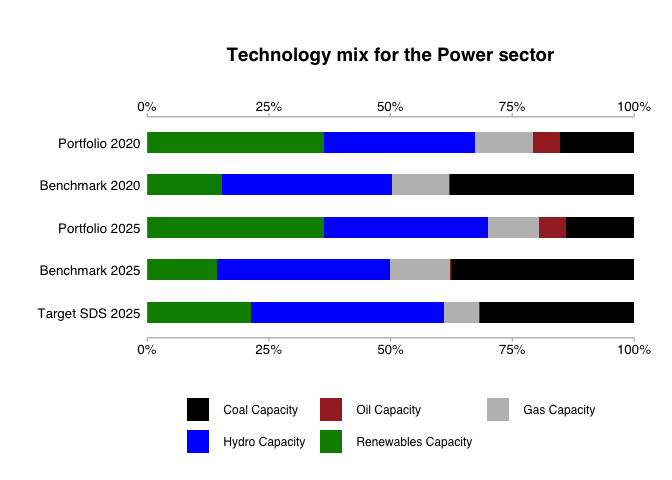
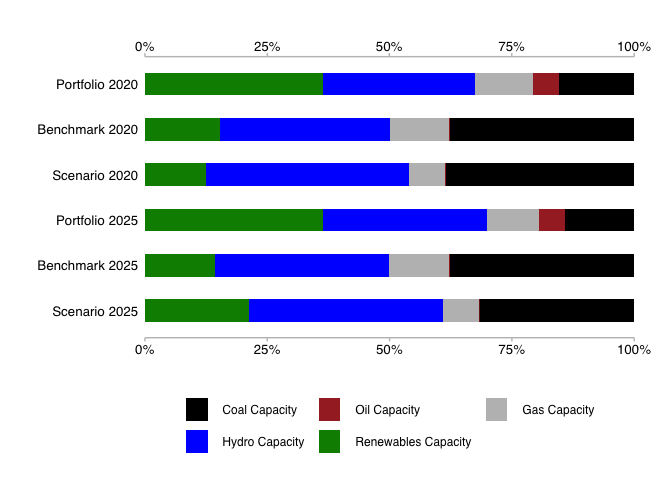
Update README

diff --git a/README.md b/README.md
@@ -93,50 +93,71 @@ plot
 -   `plot_techmix()` create a techmix chart in a ggplot object.
 
 ``` r
-data_techmix_power <- prepare_for_techmix_chart(example_data,
-  sector_filter = "power",
+# Default colours, all data, added title
+
+sector <- "power"
+
+data <- prepare_for_techmix_chart(example_data,
+  sector_filter = sector,
   years_filter = c(2020, 2025), region_filter = "global",
   scenario_source_filter = "demo_2020",
   scenario_filter = "sds", value_to_plot = "technology_share"
 )
 
-bars_labels_specs <- dplyr::tibble(
-  metric_type = c(
-    "portfolio_2020", "benchmark_2020", "portfolio_2025",
-    "benchmark_2025", "scenario_2025"
-  ),
-  label = c(
-    "Portfolio 2020", "Benchmark 2020", "Portfolio 2025",
-    "Benchmark 2025", "Target SDS 2025"
-  )
-)
-
-plot_techmix_power <- plot_techmix(data_techmix_power,
-  df_bar_specs = bars_labels_specs
-)
-plot_techmix_power +
+plot <- plot_techmix(data)
+plot +
   ggplot2::labs(title = "Technology mix for the Power sector")
 ```
 
 <img src="man/figures/README-unnamed-chunk-5-1.png" width="100%" style="display: block; margin: auto auto auto 0;" />
 
 ``` r
+# Custom colours, all data, no title
+
 power_colors_custom <- dplyr::tibble(
   technology = c("coalcap", "oilcap", "gascap", "nuclearcap", "hydrocap", "renewablescap"),
   label = c("Coal Capacity", "Oil Capacity", "Gas Capacity", "Nuclear Capacity", "Hydro Capacity", "Renewables Capacity"),
   colour = c("black", "brown", "grey", "red", "blue", "green4")
 )
 
-plot_techmix_custom_col <- plot_techmix(data_techmix_power,
-  power_colors_custom, df_bar_specs = bars_labels_specs
+plot <- plot_techmix(data,
+  tech_colours = power_colors_custom
 )
-plot_techmix_custom_col + 
-  ggplot2::labs(
-    title = "Technology mix for the Power sector"
-  )
+plot
 ```
 
 <img src="man/figures/README-unnamed-chunk-5-2.png" width="100%" style="display: block; margin: auto auto auto 0;" />
+
+``` r
+# Default colours, selected data and labels (metric_type parameters), added title
+
+sector <- "automotive"
+
+data <- prepare_for_techmix_chart(example_data,
+  sector_filter = sector,
+  years_filter = c(2020, 2025), region_filter = "global",
+  scenario_source_filter = "demo_2020",
+  scenario_filter = "sds", value_to_plot = "technology_share"
+)
+
+metric_type_order = c(
+    "portfolio_2020", "benchmark_2020", "portfolio_2025",
+    "benchmark_2025", "scenario_2025"
+)
+metric_type_labels = c(
+    "Portfolio 2020", "Benchmark 2020", "Portfolio 2025",
+    "Benchmark 2025", "Target SDS 2025"
+  )
+
+plot <- plot_techmix(data,
+  metric_type_order = metric_type_order,
+  metric_type_labels = metric_type_labels
+)
+plot +
+  ggplot2::labs(title = "Technology mix for the Automotive sector")
+```
+
+<img src="man/figures/README-unnamed-chunk-5-3.png" width="100%" style="display: block; margin: auto auto auto 0;" />
 
 -   `prepare_for_timeline()` prepares sda\_target-type data for timeline
     plot.
